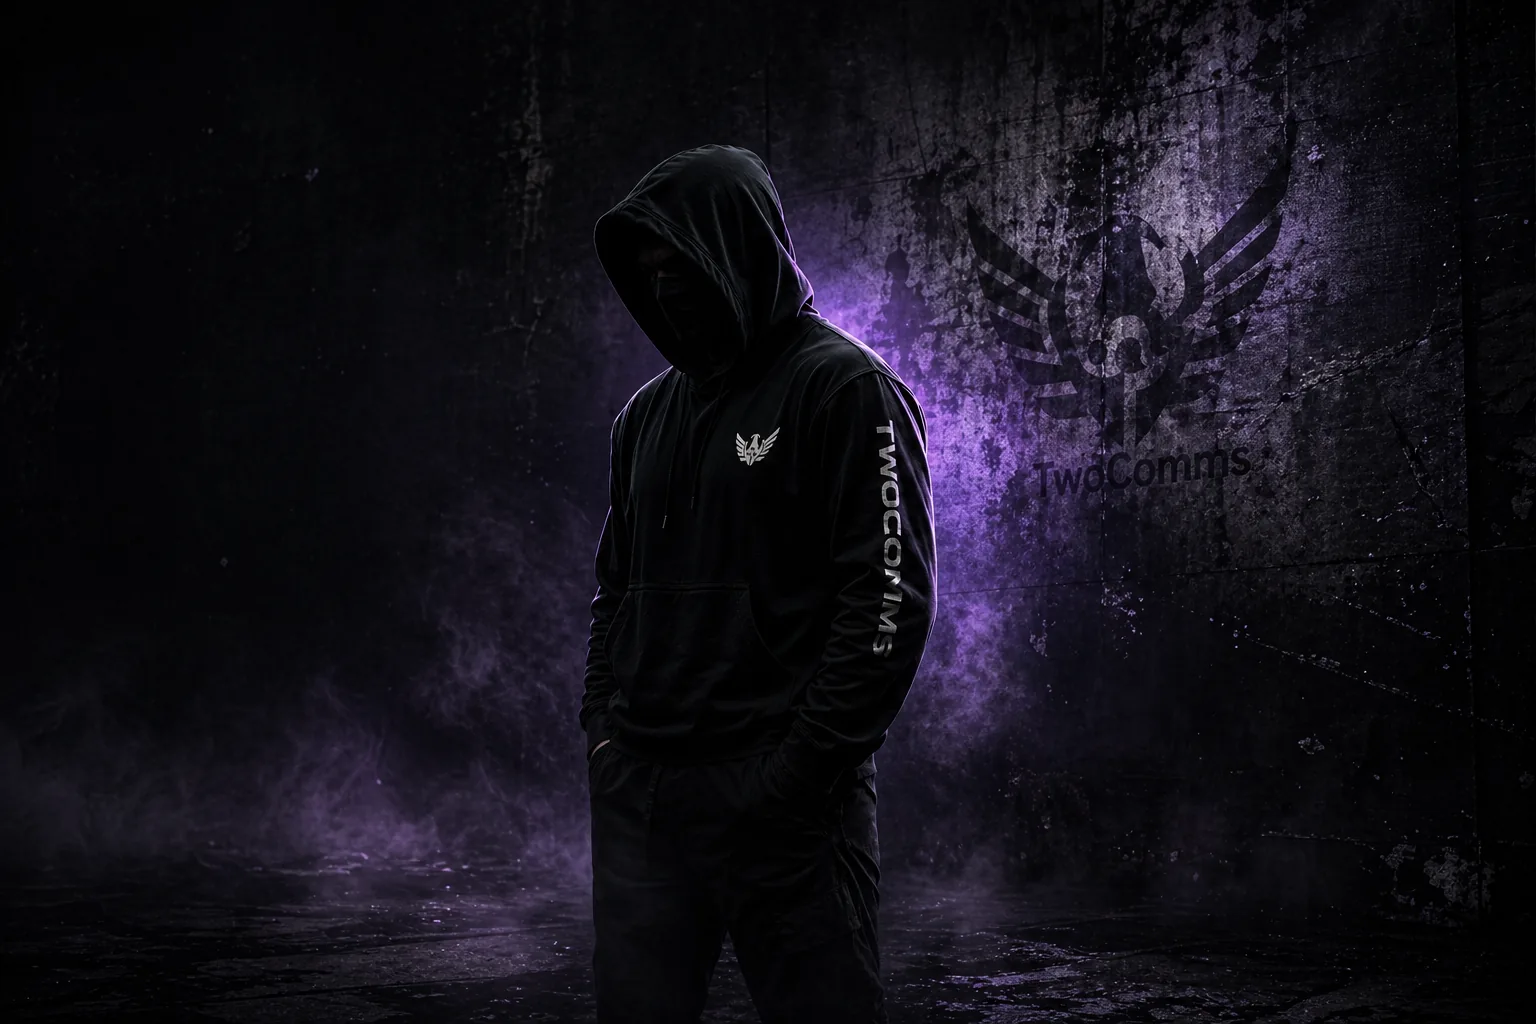
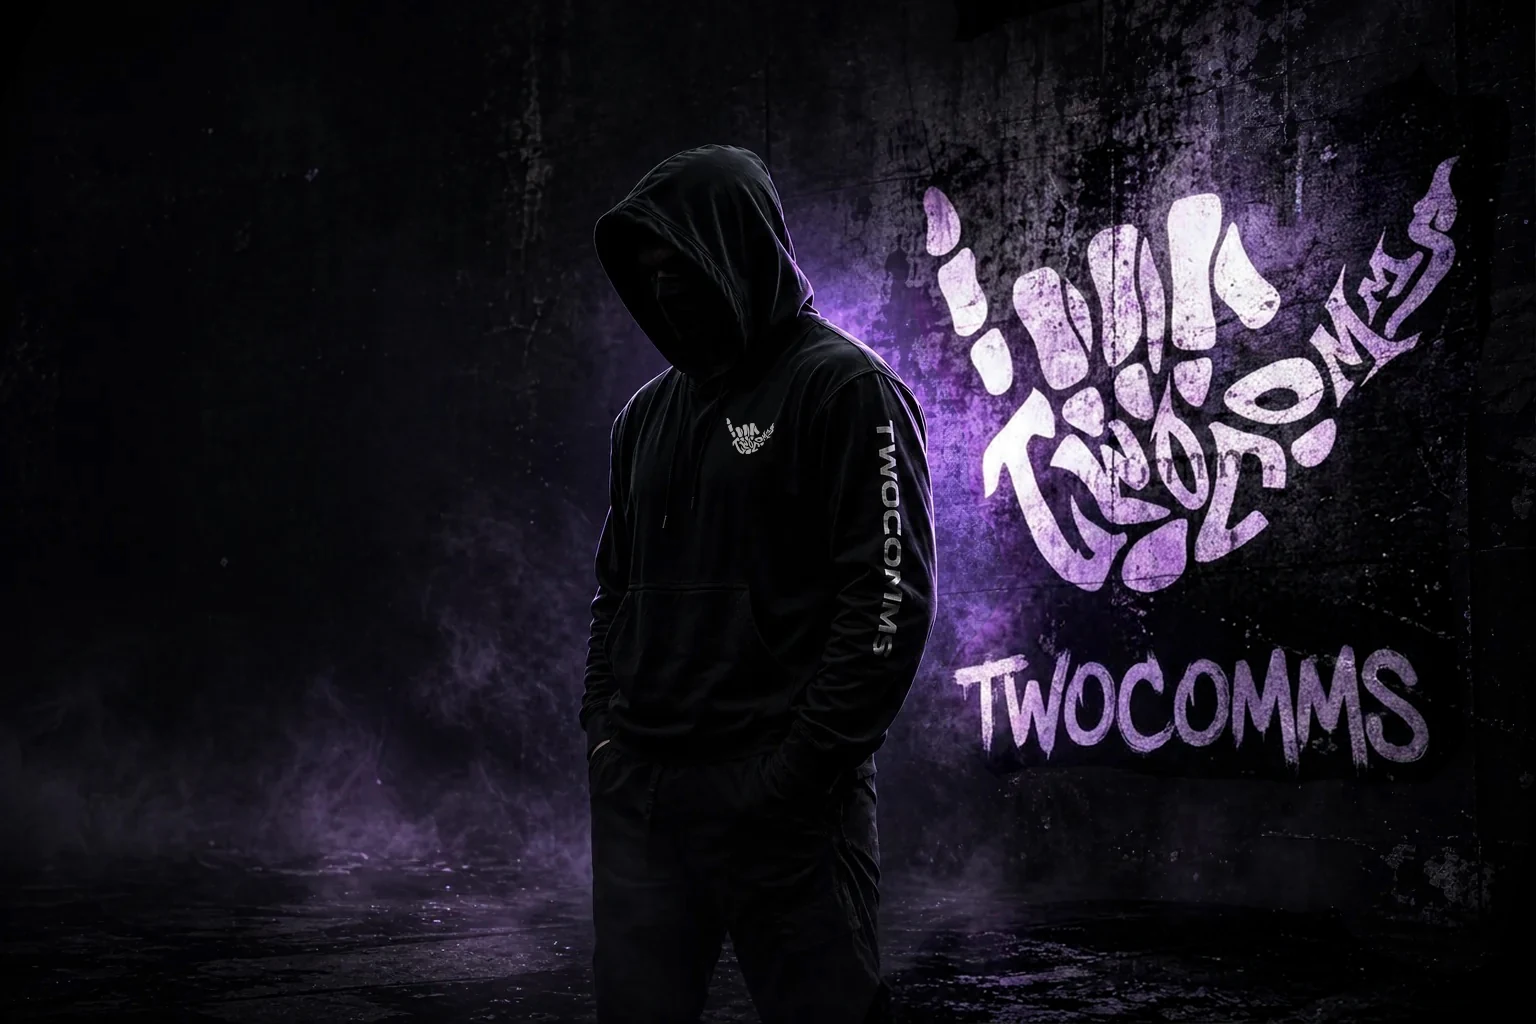
style: refresh catalog assets and cards

diff --git a/twocomms/twocomms_django_theme/templates/pages/catalog.html b/twocomms/twocomms_django_theme/templates/pages/catalog.html
@@ -9,6 +9,7 @@
 {% block extra_css %}
 {{ block.super }}
 <link rel="preload" as="image" href="{% static 'img/catalog/catalog-hero.webp' %}" fetchpriority="high">
+<link rel="stylesheet" href="{% static 'css/home.css' %}">
 <link rel="stylesheet" href="{% static 'css/catalog-redesign.css' %}">
 {% endblock %}
 
@@ -275,15 +276,15 @@
       </div>
       {% endif %}
 
-      {% cache 600 catalog_products request.get_full_path public_product_order_version public_category_version using="fragments" %}
-      <div class="row g-3 g-md-4 row-cols-2 row-cols-md-3 row-cols-lg-4" data-stagger-grid>
+      {% cache 600 catalog_products_home_cards_v2 request.get_full_path public_product_order_version public_category_version using="fragments" %}
+      <div class="row g-3 g-md-4 row-cols-2 row-cols-md-3 row-cols-lg-4 home-products-grid catalog-products-grid" data-stagger-grid data-mobile-stagger="true">
         {% for p in products %}
         <div class="col product-card-wrap">
-          {% cache 900 product_card p.id p.updated_at|date:'U' p.final_price p.discount_percent p.display_image.name p.category_id forloop.counter0 using="fragments" %}
+          {% cache 900 product_card_home_catalog_v3 p.id p.updated_at|date:'U' p.final_price p.discount_percent p.home_card_image.name p.display_image.name p.category_id p.colors_preview_key forloop.counter0 using="fragments" %}
             {% if forloop.counter0 < 2 %}
-              {% include "partials/product_card.html" with p=p stagger=False eager=True animate=False %}
+              {% include "partials/product_card.html" with p=p stagger=True eager=True animate=True home_card=True %}
             {% else %}
-              {% include "partials/product_card.html" with p=p stagger=False eager=False animate=False %}
+              {% include "partials/product_card.html" with p=p stagger=True eager=False animate=True home_card=True %}
             {% endif %}
           {% endcache %}
           {% if p.colors_preview %}

diff --git a/twocomms/twocomms_django_theme/static/css/catalog-redesign.css b/twocomms/twocomms_django_theme/static/css/catalog-redesign.css
@@ -580,9 +580,13 @@ html:has(.catalog-redesign-shell) .site-footer-premium {
   color: var(--catalog-muted);
 }
 
-.catalog-products-section .card.product {
+.catalog-products-section .card.product:not(.home-product-card) {
   border-color: rgba(255, 255, 255, 0.12);
   background: rgba(12, 13, 18, 0.72);
+}
+
+.catalog-products-grid {
+  align-items: stretch;
 }
 
 .catalog-pagination {

diff --git a/twocomms/storefront/tests/test_catalog.py b/twocomms/storefront/tests/test_catalog.py
@@ -6,7 +6,7 @@ from __future__ import annotations
 
 from unittest.mock import patch
 
-from django.core.cache import cache
+from django.core.cache import cache, caches
 from django.test import TestCase
 from django.urls import reverse
 
@@ -18,6 +18,7 @@ class CatalogViewTestCase(TestCase):
     def setUp(self):
         super().setUp()
         cache.clear()
+        caches["fragments"].clear()
         merchant_patcher = patch("storefront.signals.generate_google_merchant_feed_task.apply_async")
         indexnow_patcher = patch("storefront.signals.enqueue_indexnow_urls")
         self.addCleanup(merchant_patcher.stop)
@@ -156,6 +157,23 @@ class CatalogViewTests(CatalogViewTestCase):
         product_titles = [product.title for product in response.context["products"]]
         self.assertIn(in_category.title, product_titles)
         self.assertNotIn("Other Category Product", product_titles)
+
+    def test_catalog_category_uses_home_product_card_layout(self):
+        product = self.create_product(title="Styled Product", slug="styled-product")
+        product_url = reverse("product", kwargs={"slug": product.slug})
+
+        response = self.client.get(reverse("catalog_by_cat", kwargs={"cat_slug": self.category.slug}))
+
+        self.assertEqual(response.status_code, 200)
+        self.assertContains(response, "catalog-products-grid")
+        self.assertContains(response, "home-products-grid")
+        self.assertContains(response, "home-product-card card product")
+        self.assertContains(response, "reveal-stagger stagger-item")
+        self.assertContains(response, "home-product-media home-product-media-link")
+        self.assertContains(response, "home-product-content")
+        self.assertContains(response, f'href="{product_url}" class="home-product-media home-product-media-link"')
+        self.assertContains(response, product.title)
+        self.assertNotContains(response, 'class="card product h-100 hover-raise glass', html=False)
 
     def test_catalog_by_category_returns_404_for_inactive_category(self):
         self.category.is_active = False

diff --git a/twocomms/storefront/views/catalog.py b/twocomms/storefront/views/catalog.py
@@ -343,7 +343,9 @@ def catalog(request, cat_slug=None):
     color_previews = build_color_preview_map(products)
 
     for product in products:
-        product.colors_preview = color_previews.get(product.id, [])
+        colors_preview = color_previews.get(product.id, [])
+        product.colors_preview = colors_preview
+        product.colors_preview_key = build_color_preview_key(colors_preview)
 
     return render(
         request,
@@ -414,7 +416,9 @@ def search(request):
         color_previews = build_color_preview_map(product_list)
 
         for product in product_list:
-            product.colors_preview = color_previews.get(product.id, [])
+            colors_preview = color_previews.get(product.id, [])
+            product.colors_preview = colors_preview
+            product.colors_preview_key = build_color_preview_key(colors_preview)
 
         return render(
             request,

diff --git a/docs/plans/2026-04-28-catalog-assets-product-cards.md b/docs/plans/2026-04-28-catalog-assets-product-cards.md
@@ -1,0 +1,19 @@
+# Catalog Assets And Product Cards
+
+## Goal
+
+Refresh the catalog showcase images from the user-provided PNG sources and make product listing cards in catalog/category/search pages reuse the same visual component as the homepage product grid.
+
+## Scope
+
+- Convert `newCatalog/*.png` into the existing tracked WebP assets in `twocomms/twocomms_django_theme/static/img/catalog/`.
+- Keep the user source PNG files untracked.
+- Load the homepage product card styles on catalog pages and render catalog products with `home_card=True`.
+- Preserve existing SEO metadata, structured data, pagination, and fragment caching behavior.
+
+## Verification
+
+- Add a regression test for catalog category product-card markup.
+- Run targeted Django tests and checks.
+- Run `collectstatic --dry-run`.
+- Inspect local and production pages with browser screenshots after deployment.
